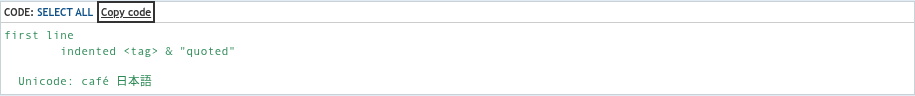
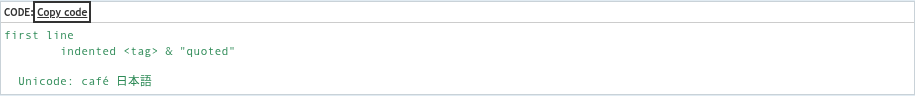
Refresh dated gallery for the single code-copy control

Changed region(s): [[0.0306, 0.0, 0.1836, 0.25]]

diff --git a/docs/update/2026-10-25/README.md b/docs/update/2026-10-25/README.md
@@ -10,15 +10,15 @@ states. The PNGs retain their original resolution.
 
 ## Copy code control
 
-A separate Copy code button appears beside Select all. Keyboard focus remains visible.
+Copy code replaces Select all when JavaScript runs, leaving one control. With JavaScript off, the original Select all link remains. Keyboard focus stays visible.
 
-<a href="01-copy-code.png"><img src="01-copy-code.png" width="640" height="67" alt="Copy code button with a visible keyboard focus outline beside Select all"></a>
+<a href="01-copy-code.png"><img src="01-copy-code.png" width="640" height="67" alt="Single Copy code button with a visible keyboard focus outline"></a>
 
 ## Successful copy
 
 The button shows Copied! after plain code is copied. Indentation and line breaks are preserved.
 
-<a href="02-code-copied.png"><img src="02-code-copied.png" width="640" height="67" alt="Copied success feedback beside Select all"></a>
+<a href="02-code-copied.png"><img src="02-code-copied.png" width="640" height="67" alt="Single code-copy control showing Copied success feedback"></a>
 
 ## Manual-copy fallback
 
